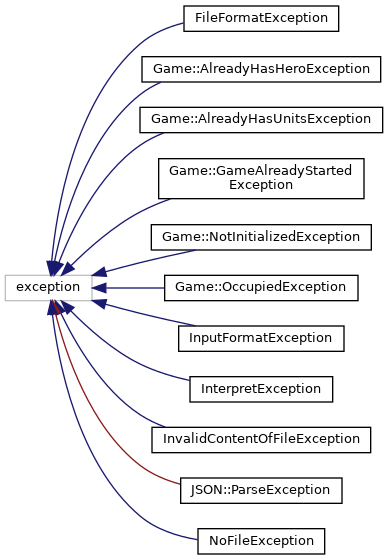
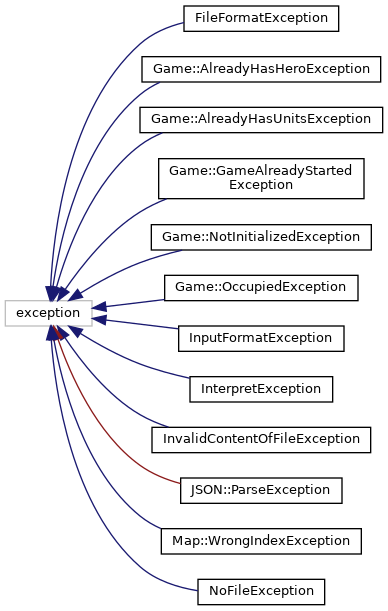
Update gh-pages to output generated at 24cd0f4

diff --git a/hierarchy.html b/hierarchy.html
@@ -82,15 +82,14 @@ This inheritance list is sorted roughly, but not completely, alphabetically:</di
 <tr id="row_0_7_" class="even"><td class="entry"><span style="width:32px;display:inline-block;">&#160;</span><span class="icona"><span class="icon">C</span></span><a class="el" href="class_interpret_exception.html" target="_self">InterpretException</a></td><td class="desc"><a class="el" href="class_interpret_exception.html" title="InterpretException class inherited from std::exception.">InterpretException</a> class inherited from std::exception </td></tr>
 <tr id="row_0_8_"><td class="entry"><span style="width:32px;display:inline-block;">&#160;</span><span class="icona"><span class="icon">C</span></span><a class="el" href="class_invalid_content_of_file_exception.html" target="_self">InvalidContentOfFileException</a></td><td class="desc"><a class="el" href="class_invalid_content_of_file_exception.html" title="InvalidContentOfFileException class inherited from std::exception.">InvalidContentOfFileException</a> class inherited from std::exception </td></tr>
 <tr id="row_0_9_" class="even"><td class="entry"><span style="width:32px;display:inline-block;">&#160;</span><span class="icona"><span class="icon">C</span></span><a class="el" href="class_j_s_o_n_1_1_parse_exception.html" target="_self">JSON::ParseException</a></td><td class="desc"><a class="el" href="class_j_s_o_n_1_1_parse_exception.html" title="ParseException class inherited from std::exception.">ParseException</a> class inherited from std::exception </td></tr>
-<tr id="row_0_10_"><td class="entry"><span style="width:32px;display:inline-block;">&#160;</span><span class="icona"><span class="icon">C</span></span><a class="el" href="class_no_file_exception.html" target="_self">NoFileException</a></td><td class="desc"><a class="el" href="class_no_file_exception.html" title="NoFileException class inherited from std::exception.">NoFileException</a> class inherited from std::exception </td></tr>
-<tr id="row_1_" class="even"><td class="entry"><span style="width:16px;display:inline-block;">&#160;</span><span class="icona"><span class="icon">C</span></span><a class="el" href="class_game.html" target="_self">Game</a></td><td class="desc"></td></tr>
-<tr id="row_2_"><td class="entry"><span style="width:16px;display:inline-block;">&#160;</span><span class="icona"><span class="icon">C</span></span><a class="el" href="class_j_s_o_n.html" target="_self">JSON</a></td><td class="desc"><a class="el" href="class_j_s_o_n.html" title="JSON class.">JSON</a> class </td></tr>
-<tr id="row_3_" class="even"><td class="entry"><span style="width:16px;display:inline-block;">&#160;</span><span class="icona"><span class="icon">C</span></span><a class="el" href="class_j_s_o_n_1_1list.html" target="_self">JSON::list</a></td><td class="desc"></td></tr>
-<tr id="row_4_"><td class="entry"><span style="width:16px;display:inline-block;">&#160;</span><span class="icona"><span class="icon">C</span></span><a class="el" href="class_map.html" target="_self">Map</a></td><td class="desc"><a class="el" href="class_map.html" title="Map class for loading and handling a map from a text file.">Map</a> class for loading and handling a map from a text file </td></tr>
-<tr id="row_5_" class="even"><td class="entry"><span style="width:0px;display:inline-block;">&#160;</span><span id="arr_5_" class="arrow" onclick="toggleFolder('5_')">&#9660;</span><span class="icona"><span class="icon">C</span></span><a class="el" href="class_monster.html" target="_self">Monster</a></td><td class="desc"><a class="el" href="class_monster.html" title="Monster class.">Monster</a> class </td></tr>
-<tr id="row_5_0_"><td class="entry"><span style="width:32px;display:inline-block;">&#160;</span><span class="icona"><span class="icon">C</span></span><a class="el" href="class_hero.html" target="_self">Hero</a></td><td class="desc"><a class="el" href="class_hero.html" title="Hero class inherited from Monster.">Hero</a> class inherited from <a class="el" href="class_monster.html" title="Monster class.">Monster</a> </td></tr>
-<tr id="row_6_" class="even"><td class="entry"><span style="width:0px;display:inline-block;">&#160;</span><span id="arr_6_" class="arrow" onclick="toggleFolder('6_')">&#9660;</span><span class="icona"><span class="icon">C</span></span><b>runtime_error</b></td><td class="desc"></td></tr>
-<tr id="row_6_0_"><td class="entry"><span style="width:32px;display:inline-block;">&#160;</span><span class="icona"><span class="icon">C</span></span><a class="el" href="class_map_1_1_wrong_index_exception.html" target="_self">Map::WrongIndexException</a></td><td class="desc"><a class="el" href="class_map_1_1_wrong_index_exception.html" title="WrongIndexException class for handling pass wrong parameter (index) in get() getter.">WrongIndexException</a> class for handling pass wrong parameter (index) in <a class="el" href="class_map.html#af3d2f71301bb5bdafcef6099a65ae7e0" title="Getter of the map element (vmap) that takes 2 coord points as parameter.">get()</a> getter </td></tr>
+<tr id="row_0_10_"><td class="entry"><span style="width:32px;display:inline-block;">&#160;</span><span class="icona"><span class="icon">C</span></span><a class="el" href="class_map_1_1_wrong_index_exception.html" target="_self">Map::WrongIndexException</a></td><td class="desc"><a class="el" href="class_map_1_1_wrong_index_exception.html" title="WrongIndexException class for handling pass wrong parameter (index) in get() getter.">WrongIndexException</a> class for handling pass wrong parameter (index) in <a class="el" href="class_map.html#af3d2f71301bb5bdafcef6099a65ae7e0" title="Getter of the map element (vmap) that takes 2 coord points as parameter.">get()</a> getter </td></tr>
+<tr id="row_0_11_" class="even"><td class="entry"><span style="width:32px;display:inline-block;">&#160;</span><span class="icona"><span class="icon">C</span></span><a class="el" href="class_no_file_exception.html" target="_self">NoFileException</a></td><td class="desc"><a class="el" href="class_no_file_exception.html" title="NoFileException class inherited from std::exception.">NoFileException</a> class inherited from std::exception </td></tr>
+<tr id="row_1_"><td class="entry"><span style="width:16px;display:inline-block;">&#160;</span><span class="icona"><span class="icon">C</span></span><a class="el" href="class_game.html" target="_self">Game</a></td><td class="desc"></td></tr>
+<tr id="row_2_" class="even"><td class="entry"><span style="width:16px;display:inline-block;">&#160;</span><span class="icona"><span class="icon">C</span></span><a class="el" href="class_j_s_o_n.html" target="_self">JSON</a></td><td class="desc"><a class="el" href="class_j_s_o_n.html" title="JSON class.">JSON</a> class </td></tr>
+<tr id="row_3_"><td class="entry"><span style="width:16px;display:inline-block;">&#160;</span><span class="icona"><span class="icon">C</span></span><a class="el" href="class_j_s_o_n_1_1list.html" target="_self">JSON::list</a></td><td class="desc"></td></tr>
+<tr id="row_4_" class="even"><td class="entry"><span style="width:16px;display:inline-block;">&#160;</span><span class="icona"><span class="icon">C</span></span><a class="el" href="class_map.html" target="_self">Map</a></td><td class="desc"><a class="el" href="class_map.html" title="Map class for loading and handling a map from a text file.">Map</a> class for loading and handling a map from a text file </td></tr>
+<tr id="row_5_"><td class="entry"><span style="width:0px;display:inline-block;">&#160;</span><span id="arr_5_" class="arrow" onclick="toggleFolder('5_')">&#9660;</span><span class="icona"><span class="icon">C</span></span><a class="el" href="class_monster.html" target="_self">Monster</a></td><td class="desc"><a class="el" href="class_monster.html" title="Monster class.">Monster</a> class </td></tr>
+<tr id="row_5_0_" class="even"><td class="entry"><span style="width:32px;display:inline-block;">&#160;</span><span class="icona"><span class="icon">C</span></span><a class="el" href="class_hero.html" target="_self">Hero</a></td><td class="desc"><a class="el" href="class_hero.html" title="Hero class inherited from Monster.">Hero</a> class inherited from <a class="el" href="class_monster.html" title="Monster class.">Monster</a> </td></tr>
 </table>
 </div><!-- directory -->
 </div><!-- contents -->

diff --git a/_map_8h_source.html b/_map_8h_source.html
@@ -85,9 +85,9 @@ $(function() {
 <div class="line"><a name="l00037"></a><span class="lineno">   37</span>&#160; </div>
 <div class="line"><a name="l00042"></a><span class="lineno"><a class="line" href="class_map.html#a67113f1ffac80d9a20b15fa18a58edc2">   42</a></span>&#160;        <span class="keywordtype">int</span> <a class="code" href="class_map.html#a67113f1ffac80d9a20b15fa18a58edc2">getHeight</a>()<span class="keyword"> const </span>{<span class="keywordflow">return</span> vmap.size();}</div>
 <div class="line"><a name="l00047"></a><span class="lineno"><a class="line" href="class_map.html#ab3181204ba96eb15b96ee1ced85e198e">   47</a></span>&#160;        <span class="keywordtype">int</span> <a class="code" href="class_map.html#ab3181204ba96eb15b96ee1ced85e198e">getWidth</a>()<span class="keyword"> const </span>{<span class="keywordflow">return</span> vmap[0].size();}</div>
-<div class="line"><a name="l00054"></a><span class="lineno"><a class="line" href="class_map_1_1_wrong_index_exception.html">   54</a></span>&#160;    <span class="keyword">class </span><a class="code" href="class_map_1_1_wrong_index_exception.html">WrongIndexException</a> : <span class="keyword">virtual</span> <span class="keyword">public</span> std::runtime_error {</div>
+<div class="line"><a name="l00054"></a><span class="lineno"><a class="line" href="class_map_1_1_wrong_index_exception.html">   54</a></span>&#160;    <span class="keyword">class </span><a class="code" href="class_map_1_1_wrong_index_exception.html">WrongIndexException</a> :  <span class="keyword">public</span> std::exception {</div>
 <div class="line"><a name="l00055"></a><span class="lineno">   55</span>&#160;        <span class="keyword">public</span>:</div>
-<div class="line"><a name="l00062"></a><span class="lineno"><a class="line" href="class_map_1_1_wrong_index_exception.html#a2bf83fc07040c5c9c1721d1e22371c85">   62</a></span>&#160;        <a class="code" href="class_map_1_1_wrong_index_exception.html#a2bf83fc07040c5c9c1721d1e22371c85">WrongIndexException</a>(<span class="keyword">const</span> std::string &amp;error) : std::runtime_error( error) {}</div>
+<div class="line"><a name="l00062"></a><span class="lineno"><a class="line" href="class_map_1_1_wrong_index_exception.html#aeebaf6a2269de443f9ed95dba18a0410">   62</a></span>&#160;        <a class="code" href="class_map_1_1_wrong_index_exception.html#aeebaf6a2269de443f9ed95dba18a0410">WrongIndexException</a>() {}</div>
 <div class="line"><a name="l00063"></a><span class="lineno">   63</span>&#160;    };</div>
 <div class="line"><a name="l00064"></a><span class="lineno">   64</span>&#160;};</div>
 </div><!-- fragment --></div><!-- contents -->
@@ -95,8 +95,8 @@ $(function() {
 <div class="ttc" id="aclass_map_html_a0f5ad0fd4563497b4214038cbca8b582"><div class="ttname"><a href="class_map.html#a0f5ad0fd4563497b4214038cbca8b582">Map::Map</a></div><div class="ttdeci">Map()</div><div class="ttdoc">Map empty constructor.</div><div class="ttdef"><b>Definition:</b> Map.h:20</div></div>
 <div class="ttc" id="aclass_map_html_ab3181204ba96eb15b96ee1ced85e198e"><div class="ttname"><a href="class_map.html#ab3181204ba96eb15b96ee1ced85e198e">Map::getWidth</a></div><div class="ttdeci">int getWidth() const</div><div class="ttdoc">Getter of the width of the map.</div><div class="ttdef"><b>Definition:</b> Map.h:47</div></div>
 <div class="ttc" id="aclass_map_html_a67113f1ffac80d9a20b15fa18a58edc2"><div class="ttname"><a href="class_map.html#a67113f1ffac80d9a20b15fa18a58edc2">Map::getHeight</a></div><div class="ttdeci">int getHeight() const</div><div class="ttdoc">Getter of the height of the map.</div><div class="ttdef"><b>Definition:</b> Map.h:42</div></div>
+<div class="ttc" id="aclass_map_1_1_wrong_index_exception_html_aeebaf6a2269de443f9ed95dba18a0410"><div class="ttname"><a href="class_map_1_1_wrong_index_exception.html#aeebaf6a2269de443f9ed95dba18a0410">Map::WrongIndexException::WrongIndexException</a></div><div class="ttdeci">WrongIndexException()</div><div class="ttdoc">WrongIndexException constructor that inherited from std::runtime_error and throw error upon on wrong ...</div><div class="ttdef"><b>Definition:</b> Map.h:62</div></div>
 <div class="ttc" id="aclass_map_html_af3d2f71301bb5bdafcef6099a65ae7e0"><div class="ttname"><a href="class_map.html#af3d2f71301bb5bdafcef6099a65ae7e0">Map::get</a></div><div class="ttdeci">Map::type get(unsigned int x, unsigned int y) const</div><div class="ttdoc">Getter of the map element (vmap) that takes 2 coord points as parameter.</div><div class="ttdef"><b>Definition:</b> Map.cpp:15</div></div>
-<div class="ttc" id="aclass_map_1_1_wrong_index_exception_html_a2bf83fc07040c5c9c1721d1e22371c85"><div class="ttname"><a href="class_map_1_1_wrong_index_exception.html#a2bf83fc07040c5c9c1721d1e22371c85">Map::WrongIndexException::WrongIndexException</a></div><div class="ttdeci">WrongIndexException(const std::string &amp;error)</div><div class="ttdoc">WrongIndexException constructor that inherited from std::runtime_error and throw error upon on wrong ...</div><div class="ttdef"><b>Definition:</b> Map.h:62</div></div>
 <div class="ttc" id="aclass_map_html"><div class="ttname"><a href="class_map.html">Map</a></div><div class="ttdoc">Map class for loading and handling a map from a text file.</div><div class="ttdef"><b>Definition:</b> Map.h:12</div></div>
 <!-- start footer part -->
 <hr class="footer"/><address class="footer"><small>

diff --git a/class_map_1_1_wrong_index_exception.html b/class_map_1_1_wrong_index_exception.html
@@ -85,7 +85,7 @@ Inheritance diagram for Map::WrongIndexException:</div>
 <div class="center"><img src="class_map_1_1_wrong_index_exception__inherit__graph.png" border="0" usemap="#_map_1_1_wrong_index_exception_inherit__map" alt="Inheritance graph"/></div>
 <map name="_map_1_1_wrong_index_exception_inherit__map" id="_map_1_1_wrong_index_exception_inherit__map">
 <area shape="rect" title="WrongIndexException class for handling pass wrong parameter (index) in get() getter." alt="" coords="5,80,205,107"/>
-<area shape="rect" title=" " alt="" coords="36,5,175,32"/>
+<area shape="rect" title=" " alt="" coords="48,5,163,32"/>
 </map>
 <center><span class="legend">[<a href="graph_legend.html">legend</a>]</span></center></div>
 <div class="dynheader">
@@ -94,21 +94,21 @@ Collaboration diagram for Map::WrongIndexException:</div>
 <div class="center"><img src="class_map_1_1_wrong_index_exception__coll__graph.png" border="0" usemap="#_map_1_1_wrong_index_exception_coll__map" alt="Collaboration graph"/></div>
 <map name="_map_1_1_wrong_index_exception_coll__map" id="_map_1_1_wrong_index_exception_coll__map">
 <area shape="rect" title="WrongIndexException class for handling pass wrong parameter (index) in get() getter." alt="" coords="5,80,205,107"/>
-<area shape="rect" title=" " alt="" coords="36,5,175,32"/>
+<area shape="rect" title=" " alt="" coords="48,5,163,32"/>
 </map>
 <center><span class="legend">[<a href="graph_legend.html">legend</a>]</span></center></div>
 <table class="memberdecls">
 <tr class="heading"><td colspan="2"><h2 class="groupheader"><a name="pub-methods"></a>
 Public Member Functions</h2></td></tr>
-<tr class="memitem:a2bf83fc07040c5c9c1721d1e22371c85"><td class="memItemLeft" align="right" valign="top">&#160;</td><td class="memItemRight" valign="bottom"><a class="el" href="class_map_1_1_wrong_index_exception.html#a2bf83fc07040c5c9c1721d1e22371c85">WrongIndexException</a> (const std::string &amp;error)</td></tr>
-<tr class="memdesc:a2bf83fc07040c5c9c1721d1e22371c85"><td class="mdescLeft">&#160;</td><td class="mdescRight"><a class="el" href="class_map_1_1_wrong_index_exception.html" title="WrongIndexException class for handling pass wrong parameter (index) in get() getter.">WrongIndexException</a> constructor that inherited from std::runtime_error and throw error upon on wrong index in <a class="el" href="class_map.html#af3d2f71301bb5bdafcef6099a65ae7e0" title="Getter of the map element (vmap) that takes 2 coord points as parameter.">get()</a> getter.  <a href="class_map_1_1_wrong_index_exception.html#a2bf83fc07040c5c9c1721d1e22371c85">More...</a><br /></td></tr>
-<tr class="separator:a2bf83fc07040c5c9c1721d1e22371c85"><td class="memSeparator" colspan="2">&#160;</td></tr>
+<tr class="memitem:aeebaf6a2269de443f9ed95dba18a0410"><td class="memItemLeft" align="right" valign="top">&#160;</td><td class="memItemRight" valign="bottom"><a class="el" href="class_map_1_1_wrong_index_exception.html#aeebaf6a2269de443f9ed95dba18a0410">WrongIndexException</a> ()</td></tr>
+<tr class="memdesc:aeebaf6a2269de443f9ed95dba18a0410"><td class="mdescLeft">&#160;</td><td class="mdescRight"><a class="el" href="class_map_1_1_wrong_index_exception.html" title="WrongIndexException class for handling pass wrong parameter (index) in get() getter.">WrongIndexException</a> constructor that inherited from std::runtime_error and throw error upon on wrong index in <a class="el" href="class_map.html#af3d2f71301bb5bdafcef6099a65ae7e0" title="Getter of the map element (vmap) that takes 2 coord points as parameter.">get()</a> getter.  <a href="class_map_1_1_wrong_index_exception.html#aeebaf6a2269de443f9ed95dba18a0410">More...</a><br /></td></tr>
+<tr class="separator:aeebaf6a2269de443f9ed95dba18a0410"><td class="memSeparator" colspan="2">&#160;</td></tr>
 </table>
 <a name="details" id="details"></a><h2 class="groupheader">Detailed Description</h2>
 <div class="textblock"><p><a class="el" href="class_map_1_1_wrong_index_exception.html" title="WrongIndexException class for handling pass wrong parameter (index) in get() getter.">WrongIndexException</a> class for handling pass wrong parameter (index) in <a class="el" href="class_map.html#af3d2f71301bb5bdafcef6099a65ae7e0" title="Getter of the map element (vmap) that takes 2 coord points as parameter.">get()</a> getter. </p>
 </div><h2 class="groupheader">Constructor &amp; Destructor Documentation</h2>
-<a id="a2bf83fc07040c5c9c1721d1e22371c85"></a>
-<h2 class="memtitle"><span class="permalink"><a href="#a2bf83fc07040c5c9c1721d1e22371c85">&#9670;&nbsp;</a></span>WrongIndexException()</h2>
+<a id="aeebaf6a2269de443f9ed95dba18a0410"></a>
+<h2 class="memtitle"><span class="permalink"><a href="#aeebaf6a2269de443f9ed95dba18a0410">&#9670;&nbsp;</a></span>WrongIndexException()</h2>
 
 <div class="memitem">
 <div class="memproto">
@@ -119,8 +119,7 @@ Public Member Functions</h2></td></tr>
         <tr>
           <td class="memname">Map::WrongIndexException::WrongIndexException </td>
           <td>(</td>
-          <td class="paramtype">const std::string &amp;&#160;</td>
-          <td class="paramname"><em>error</em></td><td>)</td>
+          <td class="paramname"></td><td>)</td>
           <td></td>
         </tr>
       </table>

diff --git a/inherits.html b/inherits.html
@@ -72,7 +72,7 @@ $(function() {
 </div><table border="0" cellspacing="10" cellpadding="0">
 <tr><td><img src="inherit_graph_0.png" border="0" usemap="#_file_format_exception" alt=""/>
 <map name="_file_format_exception" id="_file_format_exception">
-<area shape="rect" title=" " alt="" coords="5,275,92,301"/>
+<area shape="rect" title=" " alt="" coords="5,300,92,327"/>
 <area shape="rect" href="class_file_format_exception.html" title="FileFormatException class inherited from std::exception." alt="" coords="184,5,339,32"/>
 <area shape="rect" href="class_game_1_1_already_has_hero_exception.html" title=" " alt="" coords="142,56,381,83"/>
 <area shape="rect" href="class_game_1_1_already_has_units_exception.html" title=" " alt="" coords="140,107,383,133"/>
@@ -83,7 +83,8 @@ $(function() {
 <area shape="rect" href="class_interpret_exception.html" title="InterpretException class inherited from std::exception." alt="" coords="190,376,333,403"/>
 <area shape="rect" href="class_invalid_content_of_file_exception.html" title="InvalidContentOfFileException class inherited from std::exception." alt="" coords="152,427,371,453"/>
 <area shape="rect" href="class_j_s_o_n_1_1_parse_exception.html" title="ParseException class inherited from std::exception." alt="" coords="181,477,342,504"/>
-<area shape="rect" href="class_no_file_exception.html" title="NoFileException class inherited from std::exception." alt="" coords="198,528,325,555"/>
+<area shape="rect" href="class_map_1_1_wrong_index_exception.html" title="WrongIndexException class for handling pass wrong parameter (index) in get() getter." alt="" coords="161,528,361,555"/>
+<area shape="rect" href="class_no_file_exception.html" title="NoFileException class inherited from std::exception." alt="" coords="198,579,325,605"/>
 </map>
 </td></tr>
 <tr><td><img src="inherit_graph_1.png" border="0" usemap="#_game" alt=""/>
@@ -106,13 +107,7 @@ $(function() {
 <area shape="rect" href="class_map.html" title="Map class for loading and handling a map from a text file." alt="" coords="5,5,56,32"/>
 </map>
 </td></tr>
-<tr><td><img src="inherit_graph_5.png" border="0" usemap="#_map_1_1_wrong_index_exception" alt=""/>
-<map name="_map_1_1_wrong_index_exception" id="_map_1_1_wrong_index_exception">
-<area shape="rect" title=" " alt="" coords="5,5,116,32"/>
-<area shape="rect" href="class_map_1_1_wrong_index_exception.html" title="WrongIndexException class for handling pass wrong parameter (index) in get() getter." alt="" coords="164,5,364,32"/>
-</map>
-</td></tr>
-<tr><td><img src="inherit_graph_6.png" border="0" usemap="#_monster" alt=""/>
+<tr><td><img src="inherit_graph_5.png" border="0" usemap="#_monster" alt=""/>
 <map name="_monster" id="_monster">
 <area shape="rect" href="class_monster.html" title="Monster class." alt="" coords="5,5,80,32"/>
 <area shape="rect" href="class_hero.html" title="Hero class inherited from Monster." alt="" coords="128,5,181,32"/>

diff --git a/class_no_file_exception.html b/class_no_file_exception.html
@@ -81,7 +81,7 @@ Inheritance diagram for NoFileException:</div>
 <div class="center"><img src="class_no_file_exception__inherit__graph.png" border="0" usemap="#_no_file_exception_inherit__map" alt="Inheritance graph"/></div>
 <map name="_no_file_exception_inherit__map" id="_no_file_exception_inherit__map">
 <area shape="rect" title="NoFileException class inherited from std::exception." alt="" coords="5,80,132,107"/>
-<area shape="rect" title=" " alt="" coords="11,5,126,32"/>
+<area shape="rect" title=" " alt="" coords="25,5,112,32"/>
 </map>
 <center><span class="legend">[<a href="graph_legend.html">legend</a>]</span></center></div>
 <div class="dynheader">
@@ -90,7 +90,7 @@ Collaboration diagram for NoFileException:</div>
 <div class="center"><img src="class_no_file_exception__coll__graph.png" border="0" usemap="#_no_file_exception_coll__map" alt="Collaboration graph"/></div>
 <map name="_no_file_exception_coll__map" id="_no_file_exception_coll__map">
 <area shape="rect" title="NoFileException class inherited from std::exception." alt="" coords="5,80,132,107"/>
-<area shape="rect" title=" " alt="" coords="11,5,126,32"/>
+<area shape="rect" title=" " alt="" coords="25,5,112,32"/>
 </map>
 <center><span class="legend">[<a href="graph_legend.html">legend</a>]</span></center></div>
 <table class="memberdecls">

diff --git a/search/all_e.js b/search/all_e.js
@@ -1,5 +1,5 @@
 var searchData=
 [
   ['what_40',['what',['../class_no_file_exception.html#a119941c3e987cd808a30386b11e00322',1,'NoFileException::what()'],['../class_invalid_content_of_file_exception.html#aff76a61a3189b050a1625147de8655b6',1,'InvalidContentOfFileException::what()'],['../class_interpret_exception.html#a09a80cb0e62c749e7303b6e260d980fa',1,'InterpretException::what()'],['../class_input_format_exception.html#a53c79a3ae08837b69f136b41c7e9e380',1,'InputFormatException::what()'],['../class_file_format_exception.html#a1482e953aed010ec7b3c2bdab3032d92',1,'FileFormatException::what()']]],
-  ['wrongindexexception_41',['WrongIndexException',['../class_map_1_1_wrong_index_exception.html',1,'Map::WrongIndexException'],['../class_map_1_1_wrong_index_exception.html#a2bf83fc07040c5c9c1721d1e22371c85',1,'Map::WrongIndexException::WrongIndexException()']]]
+  ['wrongindexexception_41',['WrongIndexException',['../class_map_1_1_wrong_index_exception.html',1,'Map::WrongIndexException'],['../class_map_1_1_wrong_index_exception.html#aeebaf6a2269de443f9ed95dba18a0410',1,'Map::WrongIndexException::WrongIndexException()']]]
 ];

diff --git a/class_map_1_1_wrong_index_exception-members.html b/class_map_1_1_wrong_index_exception-members.html
@@ -74,7 +74,7 @@ $(function() {
 
 <p>This is the complete list of members for <a class="el" href="class_map_1_1_wrong_index_exception.html">Map::WrongIndexException</a>, including all inherited members.</p>
 <table class="directory">
-  <tr class="even"><td class="entry"><a class="el" href="class_map_1_1_wrong_index_exception.html#a2bf83fc07040c5c9c1721d1e22371c85">WrongIndexException</a>(const std::string &amp;error)</td><td class="entry"><a class="el" href="class_map_1_1_wrong_index_exception.html">Map::WrongIndexException</a></td><td class="entry"><span class="mlabel">inline</span></td></tr>
+  <tr class="even"><td class="entry"><a class="el" href="class_map_1_1_wrong_index_exception.html#aeebaf6a2269de443f9ed95dba18a0410">WrongIndexException</a>()</td><td class="entry"><a class="el" href="class_map_1_1_wrong_index_exception.html">Map::WrongIndexException</a></td><td class="entry"><span class="mlabel">inline</span></td></tr>
 </table></div><!-- contents -->
 <!-- start footer part -->
 <hr class="footer"/><address class="footer"><small>

diff --git a/search/functions_a.js b/search/functions_a.js
@@ -1,5 +1,5 @@
 var searchData=
 [
   ['what_85',['what',['../class_no_file_exception.html#a119941c3e987cd808a30386b11e00322',1,'NoFileException::what()'],['../class_invalid_content_of_file_exception.html#aff76a61a3189b050a1625147de8655b6',1,'InvalidContentOfFileException::what()'],['../class_interpret_exception.html#a09a80cb0e62c749e7303b6e260d980fa',1,'InterpretException::what()'],['../class_input_format_exception.html#a53c79a3ae08837b69f136b41c7e9e380',1,'InputFormatException::what()'],['../class_file_format_exception.html#a1482e953aed010ec7b3c2bdab3032d92',1,'FileFormatException::what()']]],
-  ['wrongindexexception_86',['WrongIndexException',['../class_map_1_1_wrong_index_exception.html#a2bf83fc07040c5c9c1721d1e22371c85',1,'Map::WrongIndexException']]]
+  ['wrongindexexception_86',['WrongIndexException',['../class_map_1_1_wrong_index_exception.html#aeebaf6a2269de443f9ed95dba18a0410',1,'Map::WrongIndexException']]]
 ];

diff --git a/functions.html b/functions.html
@@ -212,7 +212,7 @@ $(function() {
 , <a class="el" href="class_no_file_exception.html#a119941c3e987cd808a30386b11e00322">NoFileException</a>
 </li>
 <li>WrongIndexException()
-: <a class="el" href="class_map_1_1_wrong_index_exception.html#a2bf83fc07040c5c9c1721d1e22371c85">Map::WrongIndexException</a>
+: <a class="el" href="class_map_1_1_wrong_index_exception.html#aeebaf6a2269de443f9ed95dba18a0410">Map::WrongIndexException</a>
 </li>
 </ul>
 </div><!-- contents -->

diff --git a/functions_func.html b/functions_func.html
@@ -193,7 +193,7 @@ $(function() {
 , <a class="el" href="class_no_file_exception.html#a119941c3e987cd808a30386b11e00322">NoFileException</a>
 </li>
 <li>WrongIndexException()
-: <a class="el" href="class_map_1_1_wrong_index_exception.html#a2bf83fc07040c5c9c1721d1e22371c85">Map::WrongIndexException</a>
+: <a class="el" href="class_map_1_1_wrong_index_exception.html#aeebaf6a2269de443f9ed95dba18a0410">Map::WrongIndexException</a>
 </li>
 </ul>
 </div><!-- contents -->
